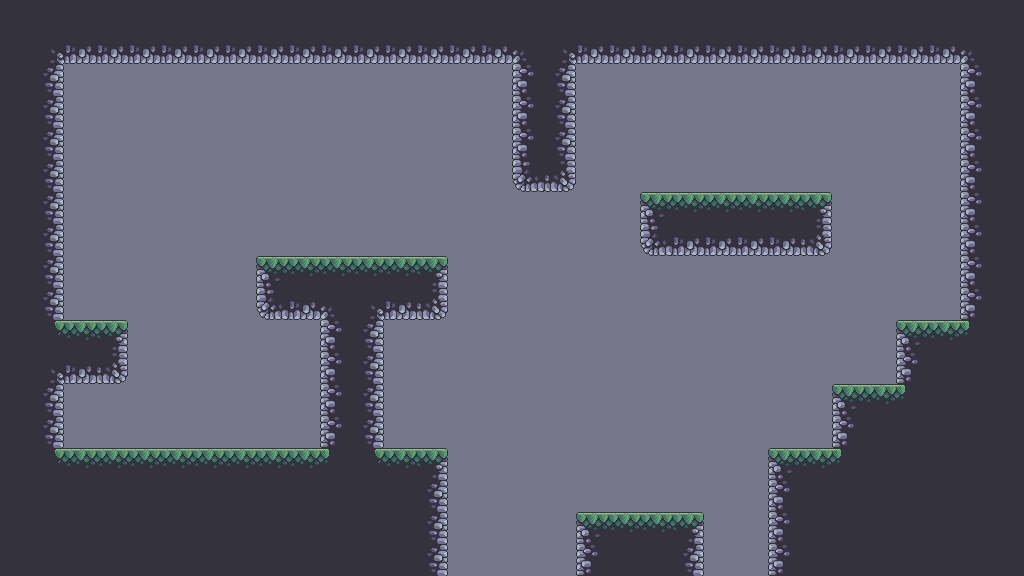
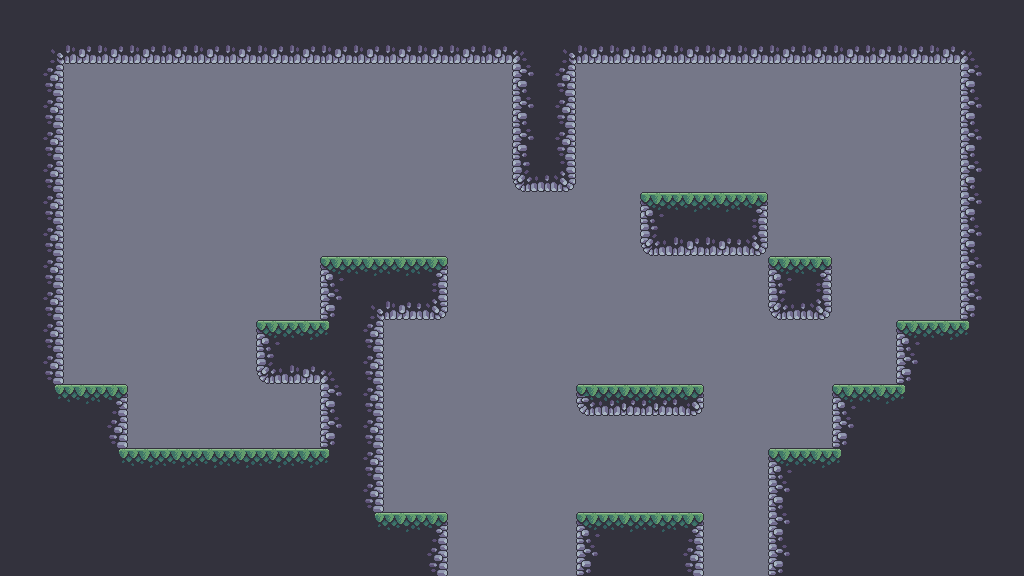
3-5 maps: update and entities added

diff --git a/index.js b/index.js
@@ -160,104 +160,113 @@ let levels = {
 		},
 	},
 	3: {
-		init: function () {
-			parsedCollsions = collisionLevel3.parse2D();
-			collisionBlocks = parsedCollsions.createObjectsFrom2D();
-			player.collisionBlocks = collisionBlocks;
-			player.position.x = 100;
-			player.position.y = 500;
+        init: function () {
+            parsedCollsions = collisionLevel3.parse2D();
+            collisionBlocks = parsedCollsions.createObjectsFrom2D();
+			entities = entitiesLevel3.createEntityArrayFromObject();
+            player.collisionBlocks = collisionBlocks;
+            player.position.x = 100;
+            player.position.y = 350;
 
-			if (player.currentAnimation) player.currentAnimation.isActive = false;
+            if (player.currentAnimation)
+                player.currentAnimation.isActive = false;
 
-			background = new Sprite({
-				position: {
-					x: 0,
-					y: 0,
-				},
-				imageSrc: './img/backgroundLevel3.png',
-			});
+            background = new Sprite({
+                position: {
+                    x: 0,
+                    y: 0
+                },
+                imageSrc: './img/backgroundLevel3.png'
+            });
 
-			doors = [
-				new Sprite({
-					position: {
-						x: 670,
-						y: 80,
-					},
-					imageSrc: './img/doorOpen.png',
-					frameRate: 5,
-					frameBuffer: 7,
-					loop: false,
-					autoplay: false,
-				}),
-			];
-		},
-	},
-	4: {
-		init: function () {
-			parsedCollsions = collisionLevel4.parse2D();
-			collisionBlocks = parsedCollsions.createObjectsFrom2D();
-			player.collisionBlocks = collisionBlocks;
-			player.position.x = 350;
-			player.position.y = 64;
+            doors = [
+                new Sprite({
+                    position: {
+                        x: 670,
+                        y: 80,
+                    },
+                    imageSrc: './img/doorOpen.png',
+                    frameRate: 5,
+                    frameBuffer: 7,
+                    loop: false,
+                    autoplay: false
+                })
+            ];
 
-			if (player.currentAnimation) player.currentAnimation.isActive = false;
+        }
+    },
+    4: {
+        init: function () {
+            parsedCollsions = collisionLevel4.parse2D();
+            collisionBlocks = parsedCollsions.createObjectsFrom2D();
+			entities = entitiesLevel4.createEntityArrayFromObject();
+            player.collisionBlocks = collisionBlocks
+            player.position.x = 350;
+            player.position.y = 64;
 
-			background = new Sprite({
-				position: {
-					x: 0,
-					y: 0,
-				},
-				imageSrc: './img/backgroundLevel4.png',
-			});
+            if (player.currentAnimation)
+                player.currentAnimation.isActive = false;
 
-			doors = [
-				new Sprite({
-					position: {
-						x: 32,
-						y: 400,
-					},
-					imageSrc: './img/doorOpen.png',
-					frameRate: 5,
-					frameBuffer: 7,
-					loop: false,
-					autoplay: false,
-				}),
-			];
-		},
-	},
+            background = new Sprite({
+                position: {
+                    x: 0,
+                    y: 0
+                },
+                imageSrc: './img/backgroundLevel4.png'
+            });
+
+            doors = [
+                new Sprite({
+                    position: {
+                        x: 32,
+                        y: 400,
+                    },
+                    imageSrc: './img/doorOpen.png',
+                    frameRate: 5,
+                    frameBuffer: 7,
+                    loop: false,
+                    autoplay: false
+                })
+            ];
+
+        }
+    },
 	5: {
-		init: function () {
-			parsedCollsions = collisionLevel5.parse2D();
-			collisionBlocks = parsedCollsions.createObjectsFrom2D();
-			player.collisionBlocks = collisionBlocks;
-			player.position.x = 100;
-			player.position.y = 500;
+        init: function () {
+            parsedCollsions = collisionLevel5.parse2D();
+            collisionBlocks = parsedCollsions.createObjectsFrom2D();
+			entities = entitiesLevel5.createEntityArrayFromObject();
+            player.collisionBlocks = collisionBlocks;
+            player.position.x = 100;
+            player.position.y = 500;
 
-			if (player.currentAnimation) player.currentAnimation.isActive = false;
+            if (player.currentAnimation)
+                player.currentAnimation.isActive = false;
 
-			background = new Sprite({
-				position: {
-					x: 0,
-					y: 0,
-				},
-				imageSrc: './img/backgroundLevel5.png',
-			});
+            background = new Sprite({
+                position: {
+                    x: 0,
+                    y: 0
+                },
+                imageSrc: './img/backgroundLevel5.png'
+            });
 
-			doors = [
-				new Sprite({
-					position: {
-						x: 860,
-						y: 400,
-					},
-					imageSrc: './img/doorOpen.png',
-					frameRate: 5,
-					frameBuffer: 7,
-					loop: false,
-					autoplay: false,
-				}),
-			];
-		},
-	},
+            doors = [
+                new Sprite({
+                    position: {
+                        x: 860,
+                        y: 400,
+                    },
+                    imageSrc: './img/doorOpen.png',
+                    frameRate: 5,
+                    frameBuffer: 7,
+                    loop: false,
+                    autoplay: false
+                })
+            ];
+
+        }
+    },
 	6: {
 		init: function () {
 			parsedCollisions = collisionLevel6.parse2D();

diff --git a/js/data/collisions.js b/js/data/collisions.js
@@ -15,23 +15,35 @@ const collisionLevel2 = [
 	3, 3, 3, 1, 1, 3, 1, 1, 3, 1, 0, 0,
 ];
 
-const collisionLevel3 = [
-	1, 1, 1, 1, 1, 1, 1, 1, 1, 1, 1, 1, 1, 1, 1, 1, 1, 0, 0, 0, 0, 0, 0, 0, 1, 0, 0, 0, 0, 0, 0, 1, 1, 0, 0, 0, 0, 0, 0, 0, 1, 0, 0, 0, 0, 0, 0, 1, 1, 0, 0, 0, 0, 0, 0, 0, 0, 0, 1, 1, 1, 0, 0, 1, 1, 0,
-	0, 0, 1, 1, 1, 0, 0, 0, 0, 0, 0, 0, 0, 1, 1, 1, 0, 0, 0, 1, 0, 0, 0, 0, 0, 0, 0, 0, 1, 0, 1, 0, 0, 0, 0, 1, 2, 0, 0, 0, 0, 0, 0, 1, 0, 0, 1, 1, 1, 1, 1, 1, 1, 0, 0, 0, 0, 0, 1, 0, 0, 0, 1, 1, 1, 1,
-	1, 1, 1, 3, 3, 1, 1, 3, 1, 0, 0, 0,
-];
+const collisionLevel3 = [1, 1, 1, 1, 1, 1, 1, 1, 1, 1, 1, 1, 1, 1, 1, 1,
+	1, 0, 0, 0, 0, 0, 0, 0, 1, 0, 0, 0, 0, 0, 0, 1,
+	1, 0, 0, 0, 0, 0, 0, 0, 1, 0, 0, 0, 0, 0, 0, 1,
+	1, 0, 0, 0, 0, 0, 0, 0, 0, 0, 1, 1, 0, 0, 0, 1,
+	1, 0, 0, 0, 0, 1, 1, 0, 0, 0, 0, 0, 1, 0, 0, 1,
+	1, 0, 0, 0, 1, 1, 0, 0, 0, 0, 0, 0, 0, 0, 1, 0,
+	1, 1, 0, 0, 0, 1, 0, 0, 0, 4, 4, 0, 0, 1, 0, 0,
+	0, 0, 1, 1, 1, 1, 0, 0, 0, 0, 0, 0, 1, 0, 0, 0,
+	0, 0, 0, 0, 0, 0, 1, 3, 3, 1, 1, 3, 1, 0, 0, 0];
 
-const collisionLevel4 = [
-	1, 1, 1, 1, 1, 1, 1, 1, 1, 1, 1, 1, 1, 1, 1, 1, 1, 0, 0, 0, 0, 1, 0, 0, 0, 0, 0, 0, 0, 0, 0, 1, 1, 0, 0, 0, 0, 1, 0, 0, 0, 0, 0, 0, 0, 0, 0, 1, 1, 0, 0, 0, 0, 1, 1, 1, 0, 1, 1, 0, 0, 0, 2, 1, 1, 0,
-	0, 0, 0, 0, 0, 0, 0, 0, 0, 0, 0, 0, 1, 1, 1, 0, 0, 0, 0, 0, 0, 0, 0, 0, 0, 0, 0, 1, 0, 0, 1, 0, 0, 1, 1, 0, 0, 0, 0, 0, 0, 0, 1, 0, 0, 0, 1, 0, 1, 0, 1, 3, 1, 3, 3, 1, 3, 1, 0, 0, 0, 0, 1, 1, 1, 1,
-	1, 1, 0, 1, 1, 0, 1, 0, 0, 0, 0, 0,
-];
+const collisionLevel4 = [1, 0, 0, 0, 0, 1, 0, 0, 0, 0, 0, 0, 0, 0, 0, 1,
+	1, 0, 0, 0, 0, 1, 0, 0, 0, 0, 0, 0, 0, 0, 0, 1,
+	1, 0, 0, 0, 0, 1, 0, 0, 0, 0, 0, 0, 0, 0, 0, 1,
+	1, 0, 0, 0, 0, 1, 1, 1, 0, 1, 1, 0, 0, 0, 0, 1,
+	1, 0, 0, 0, 0, 0, 0, 0, 0, 0, 0, 0, 0, 0, 1, 1,
+	1, 0, 0, 0, 0, 0, 0, 0, 0, 0, 0, 0, 0, 1, 0, 0,
+	1, 0, 0, 1, 1, 0, 0, 0, 0, 0, 0, 0, 1, 0, 0, 0,
+	1, 0, 1, 0, 1, 3, 1, 3, 3, 1, 3, 1, 0, 0, 0, 0,
+	1, 1, 1, 1, 1, 1, 0, 1, 1, 0, 1, 0, 0, 0, 0, 0];
 
-const collisionLevel5 = [
-	1, 1, 1, 1, 1, 1, 1, 1, 1, 1, 1, 1, 1, 1, 1, 1, 1, 0, 0, 0, 0, 0, 0, 0, 0, 0, 0, 0, 0, 0, 0, 1, 1, 0, 1, 1, 1, 1, 0, 0, 0, 0, 0, 0, 0, 2, 0, 1, 1, 0, 0, 0, 0, 0, 0, 0, 0, 0, 0, 0, 1, 1, 1, 1, 1, 0,
-	0, 0, 0, 0, 0, 0, 0, 1, 0, 0, 1, 1, 1, 1, 1, 0, 0, 0, 0, 0, 0, 0, 2, 1, 0, 0, 0, 0, 0, 1, 1, 0, 0, 0, 0, 0, 0, 0, 1, 1, 0, 0, 0, 0, 0, 1, 1, 0, 0, 0, 0, 1, 0, 0, 1, 1, 0, 0, 0, 0, 0, 1, 1, 1, 1, 1,
-	1, 1, 3, 3, 1, 1, 3, 1, 3, 1, 1, 1,
-];
+const collisionLevel5 = [1, 0, 0, 0, 0, 0, 0, 0, 0, 0, 0, 0, 0, 0, 0, 1,
+	1, 0, 0, 0, 0, 0, 0, 0, 0, 0, 0, 0, 0, 0, 0, 1,
+	1, 0, 0, 0, 0, 0, 0, 0, 0, 1, 0, 0, 0, 0, 0, 1,
+	1, 0, 0, 0, 0, 0, 1, 1, 0, 0, 0, 0, 0, 1, 1, 1,
+	1, 0, 1, 1, 1, 0, 0, 0, 0, 0, 0, 0, 1, 1, 1, 1,
+	1, 0, 0, 0, 0, 0, 0, 0, 0, 1, 0, 0, 0, 0, 0, 1,
+	1, 0, 0, 0, 0, 0, 0, 0, 1, 1, 0, 0, 0, 0, 0, 1,
+	1, 0, 0, 0, 0, 1, 0, 0, 1, 1, 0, 0, 0, 0, 0, 1,
+	1, 1, 1, 1, 1, 1, 3, 3, 1, 1, 3, 1, 3, 1, 1, 1];
 
 const collisionLevel6 = [
 	1, 1, 1, 1, 1, 1, 1, 0, 1, 1, 1, 1, 1, 1, 1, 1, 1, 0, 0, 0, 0, 0, 1, 0, 1, 0, 0, 0, 0, 0, 0, 1, 1, 0, 0, 0, 0, 0, 1, 1, 1, 0, 0, 0, 0, 0, 0, 1, 1, 0, 0, 0, 0, 0, 0, 0, 0, 0, 0, 0, 0, 0, 0, 1, 1, 0,

diff --git a/js/data/entities.js b/js/data/entities.js
@@ -60,3 +60,88 @@ const entitiesLevel1 = [
 		y: 496,
 	},
 ];
+
+const entitiesLevel3 = [
+	{
+		template: 'coin_small_gold.tx',
+		x: 355,
+		y: 285,
+	},
+	{
+		template: 'coin_small_gold.tx',
+		x: 395,
+		y: 285,
+	},
+	{
+		template: 'coin_small_gold.tx',
+		x: 610,
+		y: 410,
+	},
+	{
+		template: 'coin_small_gold.tx',
+		x: 650,
+		y: 410,
+	},
+	{
+		template: 'coin_small_gold.tx',
+		x: 400,
+		y: 540,
+	},
+];
+
+const entitiesLevel4 = [
+	{
+		template: 'coin_small_gold.tx',
+		x: 525,
+		y: 330,
+	},
+	{
+		template: 'coin_small_gold.tx',
+		x: 912,
+		y: 270,
+	},
+	
+];
+
+const entitiesLevel5 = [
+	{
+		template: 'coin_small_gold.tx',
+		x: 525,
+		y: 400,
+	},
+	{
+		template: 'coin_small_gold.tx',
+		x: 840,
+		y: 208,
+	},
+	{
+		template: 'coin_small_gold.tx',
+		x: 130,
+		y: 290,
+	},
+	{
+		template: 'coin_small_gold.tx',
+		x: 160,
+		y: 290,
+	},
+	{
+		template: 'coin_small_gold.tx',
+		x: 190,
+		y: 290,
+	},
+	{
+		template: 'coin_small_gold.tx',
+		x: 220,
+		y: 290,
+	},
+	{
+		template: 'coin_small_gold.tx',
+		x: 250,
+		y: 290,
+	},
+	{
+		template: 'coin_small_gold.tx',
+		x: 280,
+		y: 290,
+	},
+];
